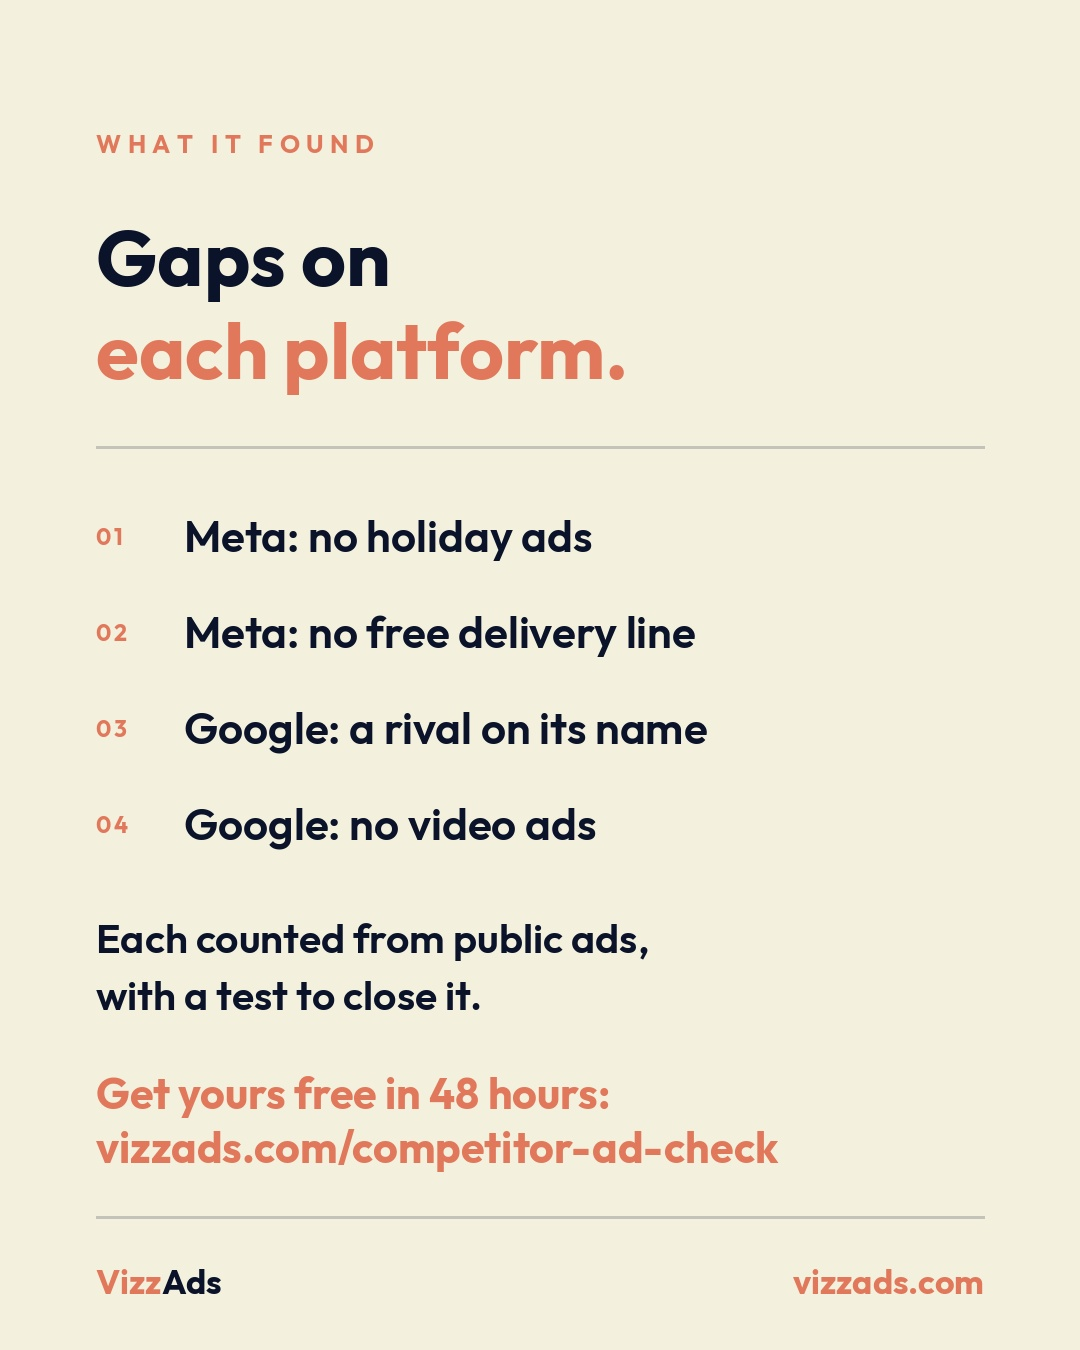
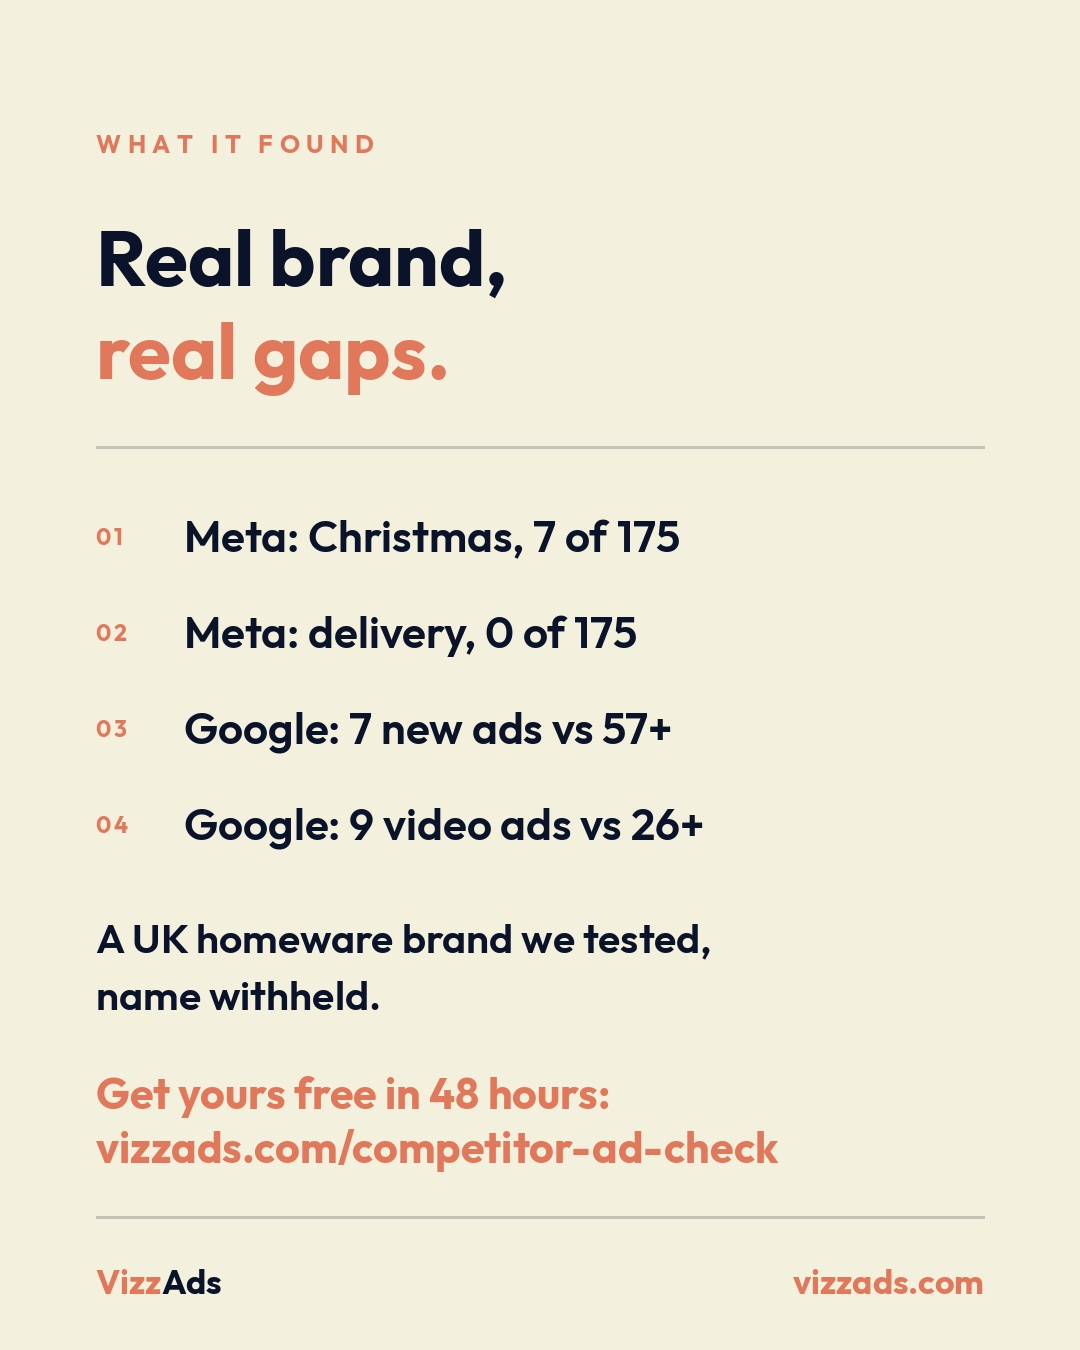
25 Nov and 4 Dec: real test data (homeware brand, name withheld) instead of made-up samples; 30 Nov sample number removed
Claude-Session: https://claude.ai/code/session_013sqAKa6H7mk5yCfZBxaW9u

diff --git a/tools/cards/build_google.py b/tools/cards/build_google.py
@@ -79,8 +79,8 @@ showcase(p % 1, "navy", "INSIDE A FREE CHECK",
          shot=[S + "competitor-ad-check-both-cover.jpg", S + "competitor-ad-check-google-2-gaps.jpg"],
          caption="Sample check for a made-up brand")
 card(p % 2, "cream", "WHAT IT FOUND",
-     ["Gaps on"], coral_last="each platform.",
-     items=["Meta: no holiday ads", "Meta: no free delivery line",
-            "Google: a rival on its name", "Google: no video ads"],
-     body=["Each counted from public ads,", "with a test to close it."],
+     ["Real brand,"], coral_last="real gaps.",
+     items=["Meta: Christmas, 7 of 175", "Meta: delivery, 0 of 175",
+            "Google: 7 new ads vs 57+", "Google: 9 video ads vs 26+"],
+     body=["A UK homeware brand we tested,", "name withheld."],
      closing=["Get yours free in 48 hours:", "vizzads.com/competitor-ad-check"])
